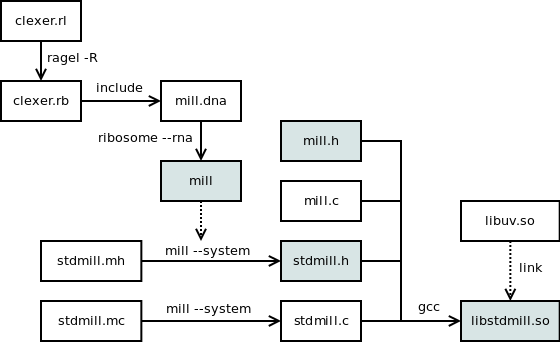
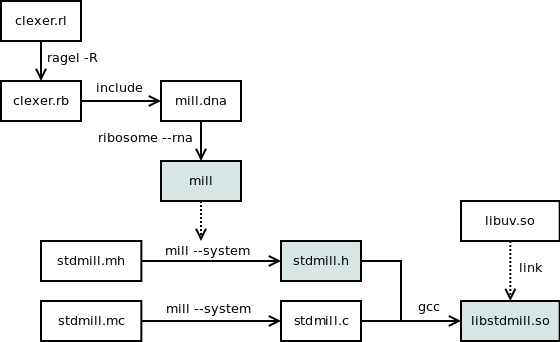
mill.h and mill.c don't exist any more

Changed region(s): [[0.4857, 0.3509, 0.7286, 0.7602]]

diff --git a/development.html b/development.html
@@ -77,15 +77,11 @@
 
 <p>'mill' is the C preprocessor itself. It is a Ruby program, however, for convenience's sake it has no .rb extension.</p>
 
-<p>'mill.h' and 'mill.c' implement the core language runtime. The code from 'mill.c' goes into 'stdmill.so'. 'mill.h' header must be installed in the runtime because it is included by the C code generated by 'mill' preprocessor.</p>
-
-<p>'stdmill.mh' and 'stdmill.mc' implement the library of elementary coroutines (timers, socket operations et c.) They have to be pre-processed by 'mill' (use --system switch to provide them with more flexibility) to yield actual library source code.</p>
+<p>'stdmill.mh' and 'stdmill.mc' implement the core language runtine along with the library of elementary coroutines (timers, socket operations et c.) They have to be pre-processed by 'mill' (use --system switch to provide them with more flexibility) to yield actual library source code.</p>
 
 <p>'stdmill.h' and 'stdmill.c' are generated from 'stdmill.mh' and 'stdmill.mc'. Along with 'mill.h' and 'mill.c' they are the source code for Mill runtime library.</p>
 
 <p>'libstdmill.so' is Mill runtime library. It has to be installed everywhere where Mill programs are being run. The library uses 'libuv.so' to interface with the operating system.</p>
-
-
 
 <h3>Bug tracker</h3>
 
